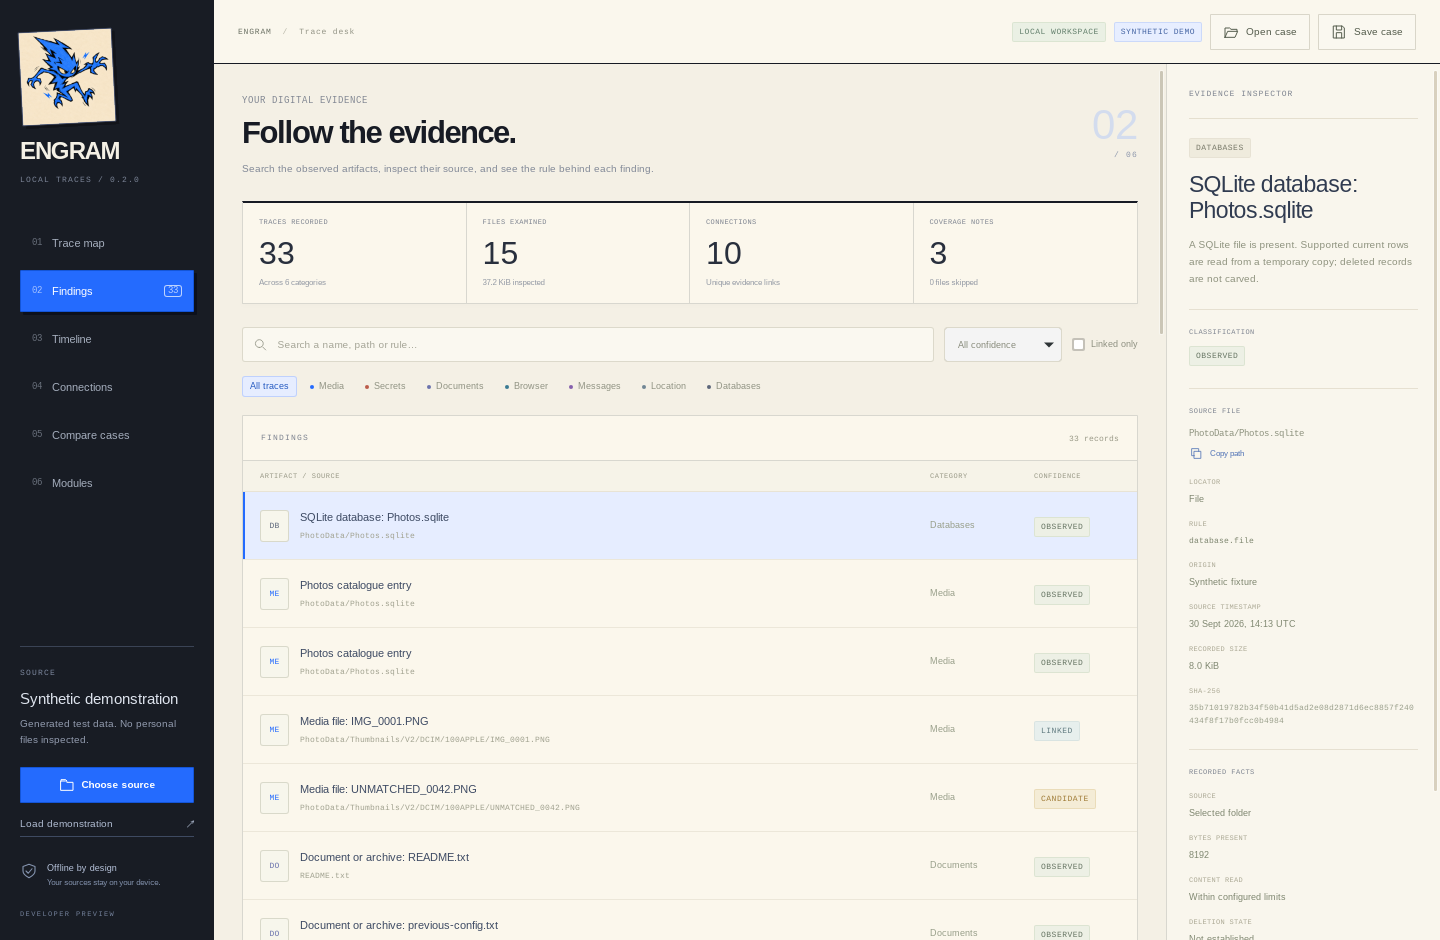
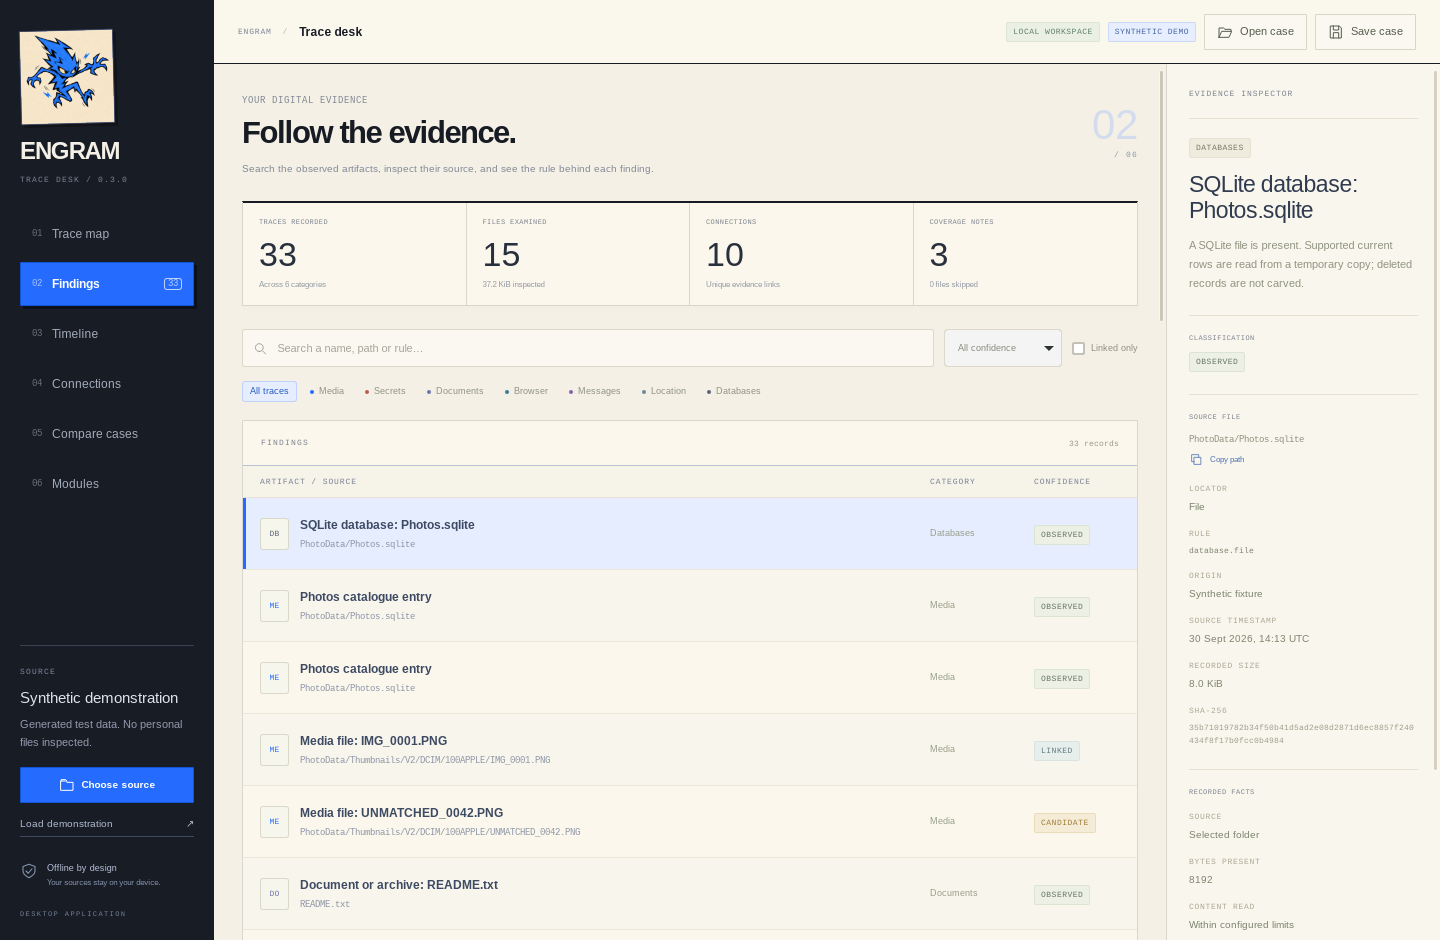
docs: publish six verified native application views [skip ci]

diff --git a/assets/screenshots/README.md b/assets/screenshots/README.md
@@ -1,11 +1,13 @@
 # Native application captures
 
-These unedited PNGs were captured from the actual ENGRAM 0.2 preview.2 Tauri executable on Linux, with the cobalt character and Trace desk identity. The React/TypeScript interface runs inside the native WebKit window. Xvfb provides the display and WebKit uses its software-rendering fallback.
+These unedited PNGs were captured from the actual ENGRAM 0.3.0 desktop application on Linux. The React/TypeScript interface runs inside the native Tauri/WebKit window. Xvfb provides the display and WebKit uses its software-rendering fallback.
 
 The case is generated from synthetic fixture files and processed by the shared analysis engine. No personal directories or real phone backups were inspected. This sample records 33 findings from 15 files, with 10 recorded relationships.
 
-Source: [9709cd8](https://github.com/Forem0/ENGRAM/commit/9709cd8f7e7b453da952eef9eba5d4d7f225922a).
-Capture: [successful native Tauri/IPC CI run](https://github.com/Forem0/ENGRAM/actions/runs/40585483665).
+Source: [d9a559b](https://github.com/Forem0/ENGRAM/commit/d9a559b2768b02582051c79584d4f95df9ebc42f).
+Capture: [successful six-view native Tauri/IPC CI run](https://github.com/Forem0/ENGRAM/actions/runs/40591718267).
+
[1 lines of base64/hex data omitted]
 
 Each launch uses `--demo --view VIEW --smoke-test`. The renderer loads a case through the native Rust command bridge and signals readiness after rendering. CI captures the visible native window before the guarded smoke process exits. The captures are 1440 × 940 pixels.
 
@@ -13,14 +15,18 @@ Each launch uses `--demo --view VIEW --smoke-test`. The renderer loads a case th
 - `findings.png`: searchable evidence index.
 - `timeline.png`: source chronology with explicit timestamp limitations.
 - `connections.png`: recorded relationships between findings.
+- `compare.png`: the native baseline-selection state before opening an earlier case; no comparison result is invented.
+- `modules.png`: implemented and experimental readers at the top of the source coverage view; more module states are available by scrolling.
 
 SHA-256:
 
 ```text
-80b80572ea1a14d01cb56bba08aa9a4d30fd071dcbdbbec79fac8ba9d89df817  workspace.png
-9ad9503eba7463a57ca3aa15edae8fd483334408e904839cf5bb079417956ea6  findings.png
-2726a27a2cae52d9a136dfc65d50e80b358c6fae3a9e34eff555dcccc90c6e28  timeline.png
-ca52260337388ea15af44679573e535010df1c06f41e75540dde3d89b4f36da6  connections.png
+8af5a1ee764122eb50ec49b38cc12d4c98b4d82a4ca3fa8805bacdd6266386cd  workspace.png
+802d101cd85c3bd6d3908a3932e33254efda36b8a85bfd4fca4ffdde50ed18c7  findings.png
+934de597e71d1eb7f58ccf16cbca5004bd526f973d3f7237a41070bbd0f01870  timeline.png
+7d99711870cc6853fec94bbfaa9f2f300f85a7af620a24cba814b2effd2be792  connections.png
+01df36dd8649f440005232ead7e663a6acd39727121a4764b8edbddc2242082b  compare.png
+424ab9fabfec271dc2c11d30aba562488fad04985fff47bbaa3e5be37af7f59c  modules.png
 ```
 
-Earlier captures remain available in the [preview.1 release source](https://github.com/Forem0/ENGRAM/tree/v0.2.0-preview.1/assets/screenshots); the [0.1 release source](https://github.com/Forem0/ENGRAM/tree/v0.1.0-preview.1/assets/screenshots) retains the historical egui interface.
+Earlier captures remain available in the [0.2 release source](https://github.com/Forem0/ENGRAM/tree/v0.2.0-preview.2/assets/screenshots).
